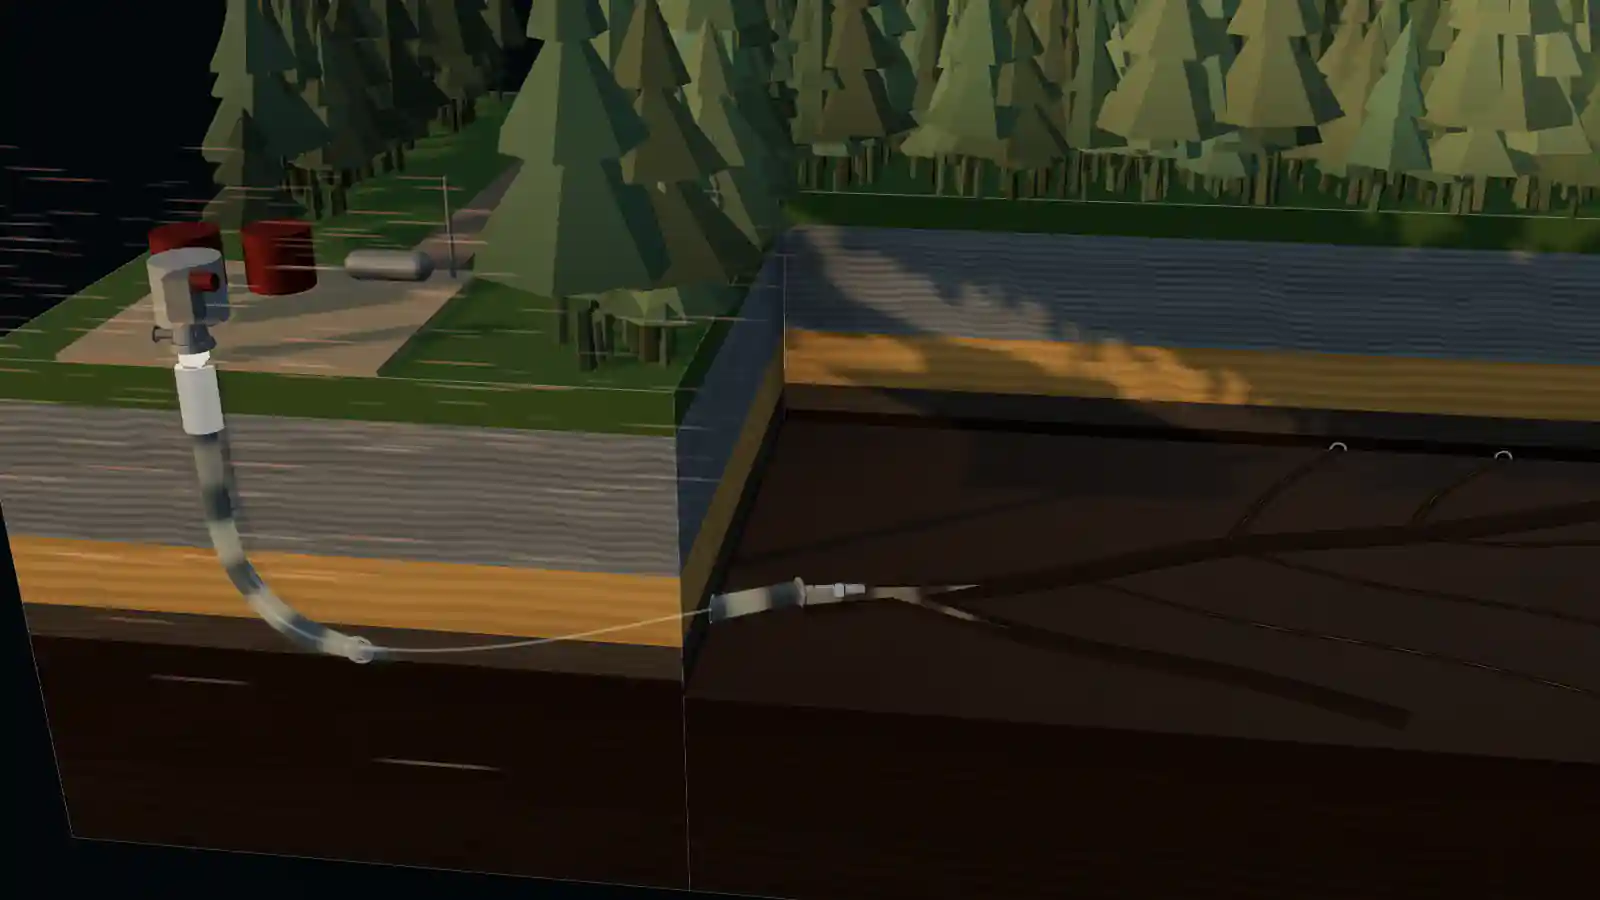
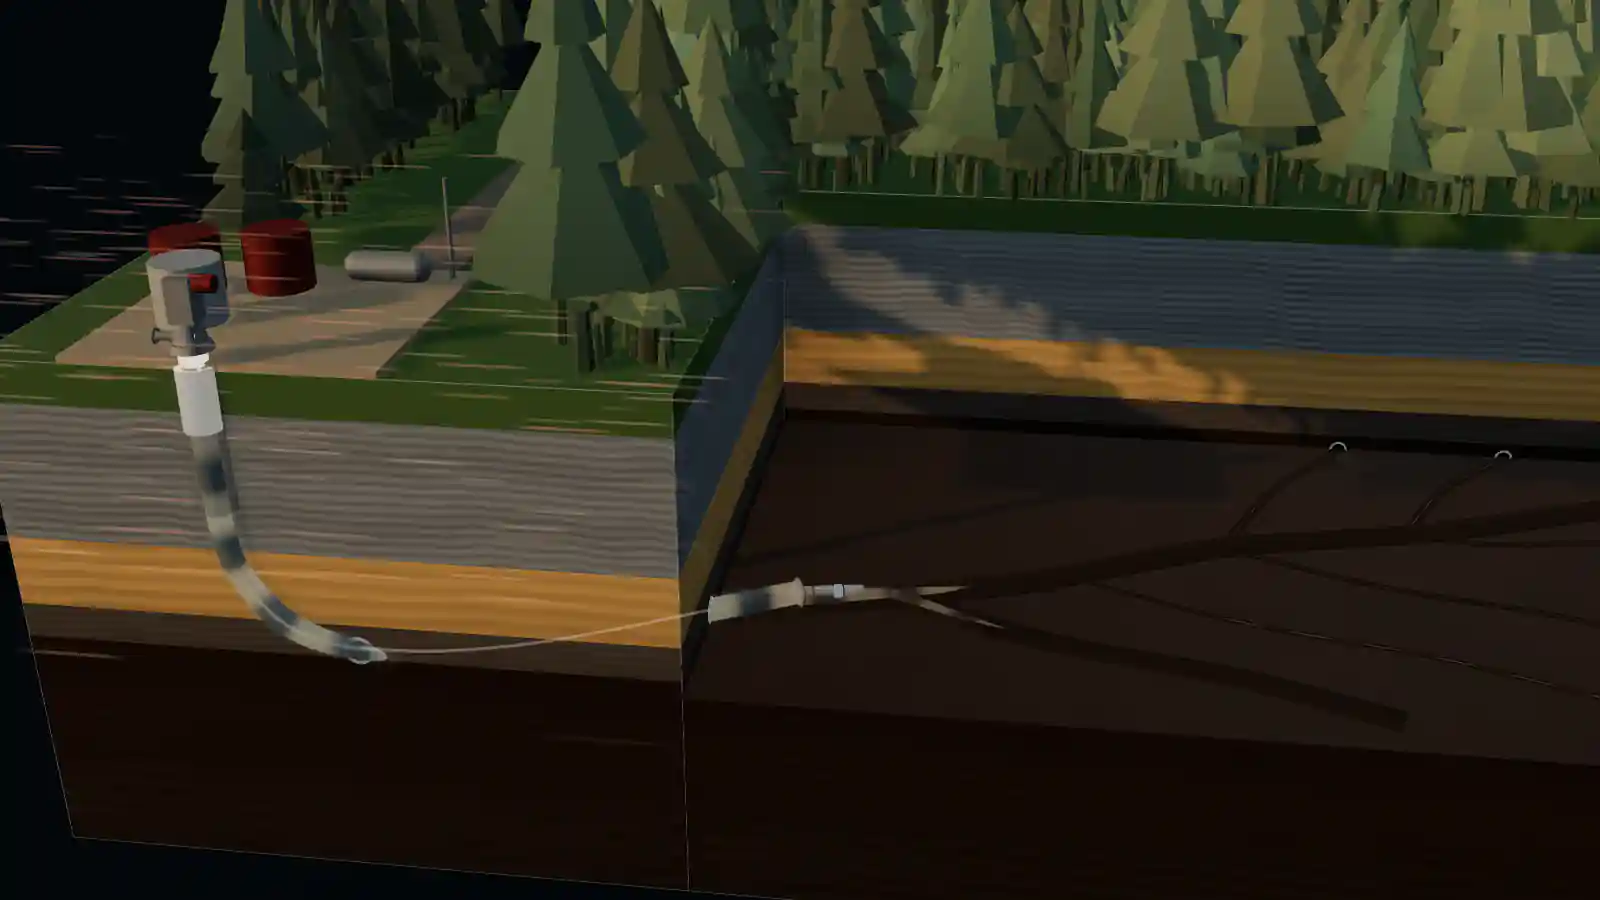
fix(truth+ui): round-10 — six confirmed P1s on the new verdict/fallback surfaces; handover
- the future verdict no longer asserts a present-tense deployment: the landing consequence
  clause is conditional on fit !== future (fact stays, "so WellFi runs..." goes)
- placement language unified everywhere it is written: "on the tubing inside casing" /
  "set below the intermediate shoe, in open hole" (main.js, qualifier-logic notes incl. the
  fifth instance, FAQ + JSON-LD mirror, ch4 figcaption, fit captions); FAQ also hedges the
  exterior mount: subject to casing size (confirm per well)
- the 10%-of-intermediate standoff rule is sourced in place ("Yotin deployment practice -
  internal rule of thumb, not a published figure") and the physics-sources gate gains a
  matcher + qualifier-logic.js coverage - strictly wider, nothing loosened
- verdict block left-aligned under its hard-justified readback (the one dated tell)
- stills capture hides body-level projected captions; stills regenerated - the ch4 webp no
  longer bakes "fluid level - now" through the benefits cards
- session-2 handover: docs/handover-2026-08-19-round10.md (orchestration arrangement, effort
  findings, round-10 P2 list, next-round shape)
- gates: 127/127, rm, scroll (10.41/11.64/14.26), runtime (68/107,734 - 54/44,022), colour PASS

diff --git a/index.html b/index.html
@@ -206,7 +206,7 @@
         "name": "How is WellFi installed?",
         "acceptedAnswer": {
           "@type": "Answer",
-          "text": "WellFi attaches to the interior or exterior of the tubing. It is most often run on a new completion or during work that is already scheduled, such as a planned progressing cavity pump changeout or a workover, so no separate intervention is required — but it can also be installed on its own run where a well justifies it."
+          "text": "WellFi runs on the tubing string — the collar is made up into the string, or strapped to the tubing OD inside casing, subject to casing size (confirm per well). It is most often run on a new completion or during work that is already scheduled, such as a planned progressing cavity pump changeout or a workover, so no separate intervention is required — but it can also be installed on its own run where a well justifies it."
         }
       },
       {
@@ -549,7 +549,7 @@
         <div class="insight-head">
           <p class="eyebrow" data-motion="rise">THE TOOL</p>
           <h2 id="insight-title" data-motion="rise">Inside the string.<br><span>Out of the way.</span></h2>
-          <p data-motion="rise">WellFi attaches to the interior or exterior of the tubing, on new installs or pump changes. It reports over wireless electromagnetic telemetry, which removes the risk that comes with running a cable.</p>
+          <p data-motion="rise">WellFi runs on the tubing string — made up into the string, or strapped to the tubing OD inside casing, subject to casing size — on new installs or pump changes. It reports over wireless electromagnetic telemetry, which removes the risk that comes with running a cable.</p>
           <ul class="application-chips" data-motion="rise" aria-label="Applications — chips retint the schematic flow">
             <li><button type="button" class="app-chip" data-hotspot="app-light" aria-pressed="false"><i class="ph ph-drop" aria-hidden="true"></i> Light Oil</button></li>
             <li><button type="button" class="app-chip" data-hotspot="app-heavy" aria-pressed="false"><i class="ph ph-drop-half" aria-hidden="true"></i> Heavy Oil</button></li>
@@ -570,7 +570,7 @@
             decoding="async"
             data-device-img
           >
-          <figcaption class="device-caption">WellFi in the tubing — EM isolator collar and sensor package</figcaption>
+          <figcaption class="device-caption">WellFi on the tubing string — EM isolator collar and sensor package</figcaption>
         </figure>
 
         <!--
@@ -685,7 +685,7 @@
             <span>How is WellFi installed?</span>
             <i class="ph ph-plus" aria-hidden="true"></i>
           </summary>
-          <p>WellFi attaches to the interior or exterior of the tubing. It is most often run on a new completion or during work that is already scheduled, such as a planned progressing cavity pump changeout or a workover, so no separate intervention is required — but it can also be installed on its own run where a well justifies it.</p>
+          <p>WellFi runs on the tubing string — the collar is made up into the string, or strapped to the tubing OD inside casing, subject to casing size (confirm per well). It is most often run on a new completion or during work that is already scheduled, such as a planned progressing cavity pump changeout or a workover, so no separate intervention is required — but it can also be installed on its own run where a well justifies it.</p>
         </details>
         <details class="faq-item" name="faq">
           <summary>

diff --git a/src/ui/fit.js b/src/ui/fit.js
@@ -20,6 +20,10 @@ const CAPTION = {
   },
   verdict: { strong: 'strong fit — WellFi lights at the proposed placement', review: 'likely fit — review required', future: 'high-temp version in development — tool dimmed' },
 };
+/* The standoff rule of thumb is printed in three places (masked caption, projected DOM caption,
+   downloaded PNG); all three carry the provenance below, so the number never travels bare. */
+const STANDOFF_SOURCE = 'Yotin deployment practice — internal rule of thumb, not a published figure';
+// source: Yotin deployment practice — internal rule of thumb, not a published figure
 const STANDOFF_TEXT = 'standoff line drawn — 10 % of intermediate';
 const SPEC_LINE = '10,000 psia · 150 °C · 46 mm OD · 5+ yr · MODBUS RS-485 / 4-20 mA';
 const FOOT_LINE = 'representative · not to scale · generated locally';
@@ -100,7 +104,10 @@ export function drawSchematic(ctx, s, W = 1200, H = 630) {
     const sy = top + (shoeY - top) * 0.9;
     ctx.setLineDash([8, 6]); ctx.strokeStyle = SAND; ctx.lineWidth = 1.5;
     ctx.beginPath(); ctx.moveTo(cx - 70, sy); ctx.lineTo(cx + 70, sy); ctx.stroke(); ctx.setLineDash([]);
+    // source: STANDOFF_SOURCE — drawn under the caption, because the PNG is the artefact that gets forwarded.
     ctx.fillStyle = SAND; ctx.fillText('standoff — 10 % of intermediate', cx + 90, sy - 18);
+    ctx.save(); ctx.font = '11px ui-monospace, monospace'; ctx.fillStyle = MUTED;
+    ctx.fillText(STANDOFF_SOURCE, cx + 90, sy - 4); ctx.restore();
   }
   // pump marker at the answered band
   if (s.landing) {
@@ -130,7 +137,7 @@ export function drawSchematic(ctx, s, W = 1200, H = 630) {
     ['Fluid', s.fluid ? CAPTION.fluid[s.fluid] : '—'],
     ['Temperature', s.temp ? CAPTION.temp[s.temp] : '—'],
     ['Pump landing', s.landing ? (s.landing === 'deeper' ? 'deeper than the standoff line' : 'shallower than the standoff line') : '—'],
-    ['WellFi', s.landing ? (toolInside ? 'inside the intermediate (tubing-conveyed)' : 'outside the intermediate (open hole)') : 'per pump landing'],
+    ['WellFi', s.landing ? (toolInside ? 'inside casing, on the tubing' : 'below the intermediate shoe (open hole)') : 'per pump landing'],
     ['Verdict', VERDICT_LABEL[s.verdict] || '—'],
   ];
   rows.forEach(([k, v]) => {
@@ -179,7 +186,7 @@ export function mountFit() {
     return builder;
   }
   // Standoff caption: "standoff — 10 % of intermediate" projected at the 0.9 line whenever the line is shown
-  // (spec §4 row 6; round 2). Uses toolViz's projected-caption channel; no digits beyond the public 10 % rule.
+  // (spec §4 row 6; round 2). source: Yotin deployment practice — internal rule of thumb, not a published figure.
   let standoffEl = null, vizRef = null;
   function syncStandoffCaption(b) {
     const show = active && state && (state.hasLength || state.landing) && b.objects && b.objects.standoff;
@@ -188,6 +195,8 @@ export function mountFit() {
       standoffEl.className = 'surface-caption standoff-caption';
       standoffEl.setAttribute('data-standoff-caption', '');
       standoffEl.textContent = 'standoff — 10 % of intermediate';
+      // source: STANDOFF_SOURCE — provenance rides on the element so a read of the DOM carries it too.
+      standoffEl.setAttribute('data-source', STANDOFF_SOURCE);
       standoffEl.hidden = true;
       document.body.appendChild(standoffEl);
     }

diff --git a/qualifier-logic.js b/qualifier-logic.js
@@ -28,6 +28,7 @@
 
   /* The standoff rule, isolated because it is the one piece of arithmetic on
      this page that an operator acts on.
+     source: Yotin deployment practice — internal rule of thumb, not a published figure.
 
      The collar needs roughly 10% of the intermediate casing's length of
      standoff above the shoe:
@@ -171,8 +172,9 @@
   // Each note explains WHY something needs review, in the engineer's terms.
   var NOTES = {
     temp: "Bottomhole temperature is the one hard limit — WellFi is rated to 150 °C today, so that number is worth confirming before anything else.",
-    external: "Landed that deep, WellFi would run outside the intermediate rather than inside the tubing. The collar wants roughly 10% of the intermediate's length of standoff above the shoe; any closer and an emitter sitting at the cemented shoe barely couples to the formation. Running it outside is routine, but it changes the install and is worth confirming early.",
-    landing: "Where the pump sits relative to the intermediate shoe decides whether WellFi runs inside the tubing or outside the intermediate. Worth pinning down before the changeout gets scoped.",
+    // source: Yotin deployment practice — internal rule of thumb, not a published figure.
+    external: "Landed that deep, WellFi would be set below the intermediate shoe, in open hole, rather than on the tubing inside casing. The collar wants roughly 10% of the intermediate's length of standoff above the shoe; any closer and an emitter sitting at the cemented shoe barely couples to the formation. It is a supported configuration, but it changes the install and is worth confirming early.",
+    landing: "Where the pump sits relative to the intermediate shoe decides whether WellFi runs on the tubing inside casing or is set below the shoe, in open hole. Worth pinning down before the changeout gets scoped.",
     timing: "WellFi can go in on a new completion, a planned changeout, or its own run. The economics are simply strongest when it rides along with work that is already scheduled.",
     lift: "Most deployments so far are on pumped wells. Other lift types are workable but worth walking through.",
     thermal: "Thermal and SAGD wells sit closest to the temperature ceiling, so the operating profile matters more than usual."

diff --git a/styles.css b/styles.css
@@ -1190,7 +1190,7 @@ a { color: inherit; text-decoration: none; }
 /* --- verdict ---
    A stacked block, not a pill (round 9, Mobbin #1): readback · VERDICT eyebrow · the label as plain text ·
    one derived sentence · the quiet actions row. A border around a result reads as a button to press. */
-.qualifier-verdict { text-align: center; }
+.qualifier-verdict { text-align: left; }
 .qualifier-verdict .qualifier-count { margin: 0 0 18px; }
 .qualifier-verdict .qualifier-readback { margin: 0 0 26px; }
 .qualifier-verdict .qualifier-readback dt,
@@ -1220,14 +1220,14 @@ a { color: inherit; text-decoration: none; }
    read like "no". */
 .qualifier-verdict[data-fit="future"] .qualifier-label { color: var(--sand); }
 .qualifier-reason {
-  margin: 14px auto 0;
+  margin: 14px 0 0;
   max-width: 34rem;
   color: var(--sand);
   font-size: 16px;
   line-height: 1.6;
 }
-.qualifier-detail { margin: 12px auto 0; max-width: 32rem; color: #b6c0c5; font-size: 15.5px; line-height: 1.65; }
-.qualifier-notes { margin: 18px auto 0; max-width: 32rem; padding: 0; list-style: none; text-align: left; }
+.qualifier-detail { margin: 12px 0 0; max-width: 32rem; color: #b6c0c5; font-size: 15.5px; line-height: 1.65; }
+.qualifier-notes { margin: 18px 0 0; max-width: 32rem; padding: 0; list-style: none; }
 .qualifier-notes li {
   display: grid;
   grid-template-columns: 20px 1fr;
@@ -1258,7 +1258,7 @@ a { color: inherit; text-decoration: none; }
 .qualifier-summary dt { color: var(--muted); }
 .qualifier-summary dd { margin: 0; color: var(--white); font-family: var(--font-mono); font-size: 13px; text-align: right; }
 
-.qualifier-actions { display: flex; flex-wrap: wrap; justify-content: center; gap: 10px; margin-top: 24px; }
+.qualifier-actions { display: flex; flex-wrap: wrap; justify-content: flex-start; gap: 10px; margin-top: 24px; }
 .qualifier-actions .button { min-height: 48px; font-size: 14px; }
 /* Demoted: the row is the way out of the block, not its headline. Ember stays as the CTA hue (§0) but as an
    outline rather than a filled pill, so nothing on the verdict out-lights the verdict. */

diff --git a/test/physics-sources.test.js b/test/physics-sources.test.js
@@ -7,8 +7,8 @@
  * a `source:` field within 300 characters of the figure. Files under src/world/ and the rest of src/
  * are scanned and listed for visibility only (comments and shader math are not printed).
  *
- * Today no DOM-facing file prints a physics figure, so this asserts the harness itself: the matcher
- * finds figures in a fixture, the enforcement passes on the real files, and the report is empty.
+ * The standoff rule of thumb ("10 % of intermediate") is the one figure DOM-facing files do print, in
+ * src/ui/fit.js (three sites) and qualifier-logic.js; each carries its provenance within the window.
  *
  *   node --test test/physics-sources.test.js
  */
@@ -27,6 +27,8 @@ const FIGURES = [
   { name: '503 (skin-depth constant)', re: /(?<![\w#.])503(?![\w.])/g },
   { name: '100x / 100× (attenuation ratio)', re: /\b100\s*[x×](?![a-z])|\b100\s*&times;/gi },
   { name: 'n × m product', re: /\d\s*(?:×|&times;)\s*\d/g },
+  // The standoff rule of thumb, in both printed forms: "10 % of intermediate" and "10% of the intermediate's length".
+  { name: '% of intermediate (standoff rule)', re: /\d+\s*%\s*of (?:the )?intermediate/gi },
 ];
 const SOURCE = /data-source=|\bsource:/;
 
@@ -50,7 +52,9 @@ function walk(dir, out = []) {
   return out;
 }
 
-const domFacing = [path.join(root, 'index.html'), ...walk(path.join(root, 'src', 'ui'))];
+// qualifier-logic.js sits at the repo root but is loaded into the page, and its NOTES strings are printed
+// verbatim in the verdict block — DOM-facing by any honest reading, so the gate must see it.
+const domFacing = [path.join(root, 'index.html'), path.join(root, 'qualifier-logic.js'), ...walk(path.join(root, 'src', 'ui'))];
 const informational = walk(path.join(root, 'src')).filter((p) => !domFacing.includes(p));
 
 describe('physics figures carry a source', () => {

diff --git a/main.js b/main.js
@@ -890,9 +890,15 @@
       over: "above 150 °C",
       unsure: "a bottomhole temperature you could not confirm"
     };
-    var LANDING_WORD = {
-      shallower: "the pump landed shallower than the standoff line, so WellFi runs inside the tubing",
-      deeper: "the pump landed deeper than the standoff line, so WellFi runs outside the intermediate"
+    var LANDING_FACT = {
+      shallower: "the pump landed shallower than the standoff line",
+      deeper: "the pump landed deeper than the standoff line"
+    };
+    /* The consequence is a *deployment* statement, so it is suppressed on the
+       `future` path — that well is on a waitlist and will not be deployed. */
+    var LANDING_THEN = {
+      shallower: ", so WellFi runs inside casing, on the tubing above the shoe",
+      deeper: ", so WellFi is set below the intermediate shoe, in open hole"
     };
     var REASON_TAIL = {
       strong: "nothing you entered sits outside the operating envelope.",
@@ -905,7 +911,9 @@
       if (LIFT_WORD[s.lift]) parts.push(LIFT_WORD[s.lift]);
       if (FLUID_WORD[s.fluid]) parts.push(FLUID_WORD[s.fluid]);
       if (TEMP_WORD[s.temp]) parts.push(TEMP_WORD[s.temp]);
-      var clause = LANDING_WORD[s.landing] || (answers.landing ? "the pump landing still to pin down" : "");
+      var clause = LANDING_FACT[s.landing]
+        ? LANDING_FACT[s.landing] + (result.fit === "future" ? "" : (LANDING_THEN[s.landing] || ""))
+        : (answers.landing ? "the pump landing still to pin down" : "");
       var lead = parts.join(", ");
       if (clause) lead = lead ? lead + " and " + clause : clause;
       if (!lead) return "";

diff --git a/src/styles/stills.css b/src/styles/stills.css
@@ -143,4 +143,5 @@ html.stills-capture .chatfi-launcher,
 html.stills-capture .chatfi-panel,
 html.stills-capture .scroll-rail,
 html.stills-capture .skip-link,
+html.stills-capture body > .surface-caption, /* projected level/earlier/pump-off captions live on <body> */
 html.stills-capture .stills { visibility: hidden !important; }

diff --git a/docs/handover-2026-08-19-round10.md b/docs/handover-2026-08-19-round10.md
@@ -1,0 +1,54 @@
+# Handover — rounds 9–10, Mobbin research, orchestration swap (2026-08-19, session 2)
+
+Follows `docs/handover-2026-08-19-world-build.md`. Current at the round-10 fix commit on `master`
+(after `6a72eaa`; the final commit of this session carries the round-10 P1 fixes + regenerated
+stills/frames). Still nothing pushed — production is the old static site.
+
+## Orchestration (Kyle's direction this session, now standing)
+
+**Fable orchestrates only** — briefs, launches, reads summaries/verdicts, runs stills/captures,
+commits. **Opus 5 implements and critiques** (craft @ medium, truth @ high, verifiers @ medium).
+**Codex is back as a critic** — run it *foreground* (`codex-companion.mjs task "..."` with stdout
+to a file, backgrounded at the Bash level); the plugin's `--background` job store lost round 6's
+job. Effort findings: `docs/effort-evaluator-2026-08-19.md` (craft-medium found the only real
+craft P1 both rounds; high pays off only on the truth lens; implementation @ medium with a
+verifier-fix-carrying brief needed zero rework across three batches). Memory:
+`yotin-orchestration-effort.md`.
+
+## What happened
+
+- **Round 9** (4 Opus critics at low/med/high + truth, Codex, verifiers): 2 P1s confirmed
+  (pane-edged copy grounds — a §13b regression; RM path printed "KPA/4-20 MA"), plus measured
+  P2s. Scores 8.2–8.6.
+- **Mobbin research** (Opus, `scratchpad/design/mobbin-research.md` in session
+  `36c37cc2…`): five patterns, top-5 ranked changes.
+- **Batch 1** (`749d1b1`): both P1s, pump move/silhouette, X-ray pressed state, caption
+  projection, phone ch2 letterbox, ChatFi hush/warm, phone rail progress + CONTENTS sheet.
+- **Batch 2** (`48e0aac`): verdict block (readback → VERDICT → plain label → derived reasoning
+  sentence → demoted actions), circuit slider as measurement track with detent, one-panel orbit.
+- **Round 10** (craft @ med + truth @ high + Codex): Codex said stop (8.7); Opus critics did not
+  (7.6 / 6.5) — 6 P1s confirmed on the new surfaces, 1 refuted (open-hole-as-pipe failed source
+  + pixel checks). All 6 fixed same session: future-verdict conditional consequence, stills
+  caption bleed (CSS + stills regen), verdict left-aligned, placement language unified ("on the
+  tubing inside casing" / "below the shoe, in open hole"), standoff rule sourced + physics-gate
+  matcher widened, FAQ casing-size hedge (JSON-LD parity kept).
+- `scripts/interactions.mjs` now captures companion `fit-*-verdict` frames (the DOM block is
+  taller than the fold at the ch6 anchor).
+
+## Open
+
+**For Kyle (spec §14, unchanged):** brand-architecture paragraph (launch blocker), bench
+topology + golden hour, Cree review of the yôtin passage, GA4 device split, operator routes,
+schematic download, feather glyph, "Best fit" tag on Q1, contact H1, §14.9 lease-pad/hero.
+
+**Round-10 P2s worth a look next round** (not blockers; several are truth-lens wording items):
+review verdict repeats itself three times; "the standoff line" asserted before it is shown;
+review-path world response pinned half under the standoff chip; ch3's invited action below the
+fold at its own anchor; phone ch3 candle smear small; pale cut-ring dominates ch2; "38 % water
+cut" / "158 kPa" / "drawdown drift" defensibility; strong-fit recites the temperature band as an
+affirmative reason; both landing markers render in the horizontal section; return current rises
+through rock with no steel drawn in it above grade.
+
+**Loop state:** two consecutive rounds converged on "the truth lens is where the remaining work
+is". Next round could be truth-only @ high + Codex, frames current, and take the P2 wording
+items as one batch.
